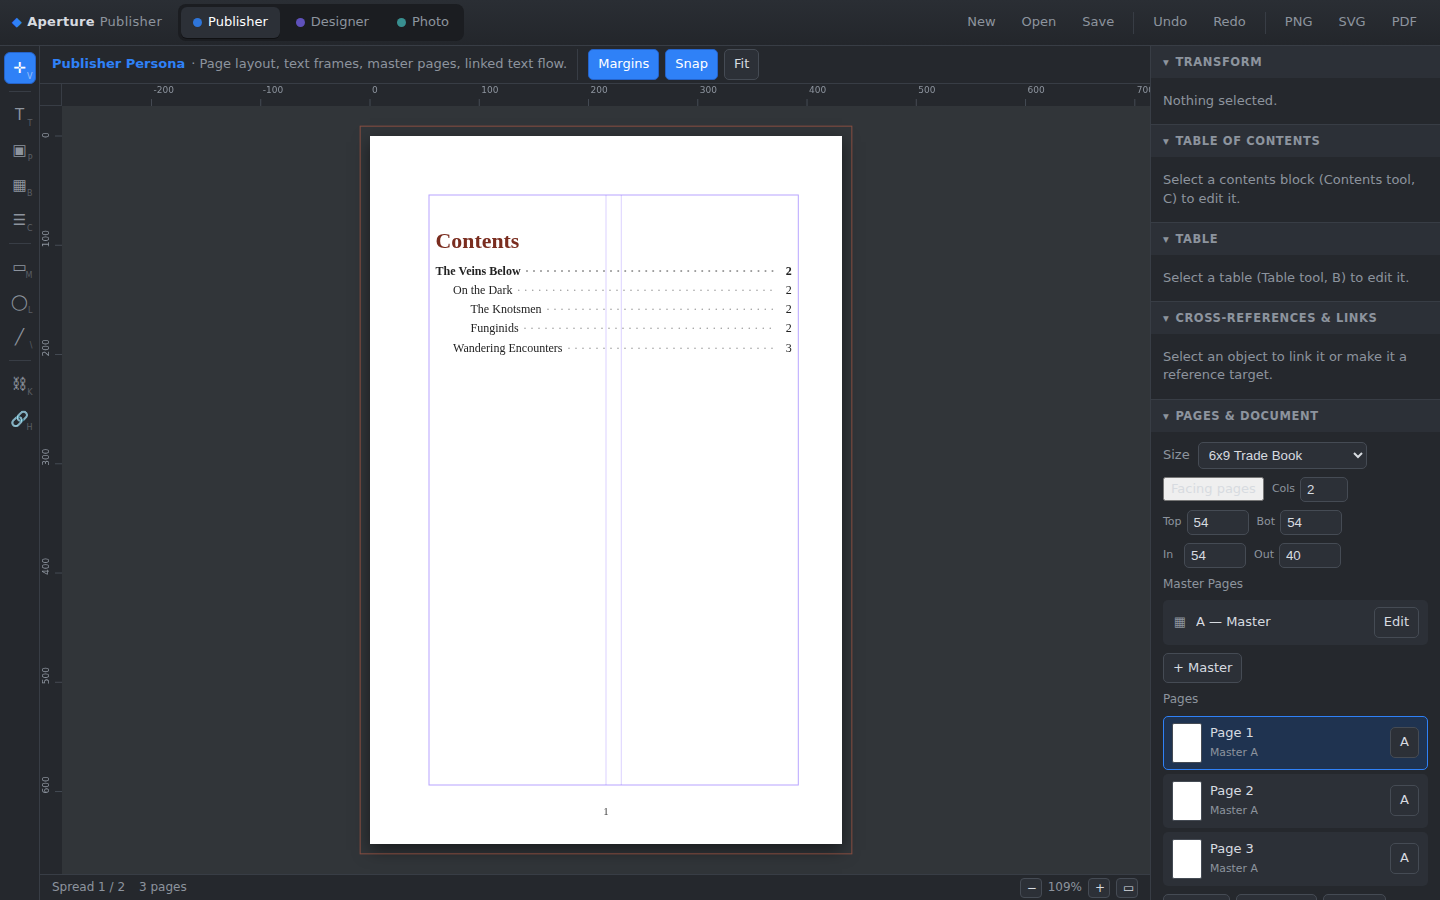
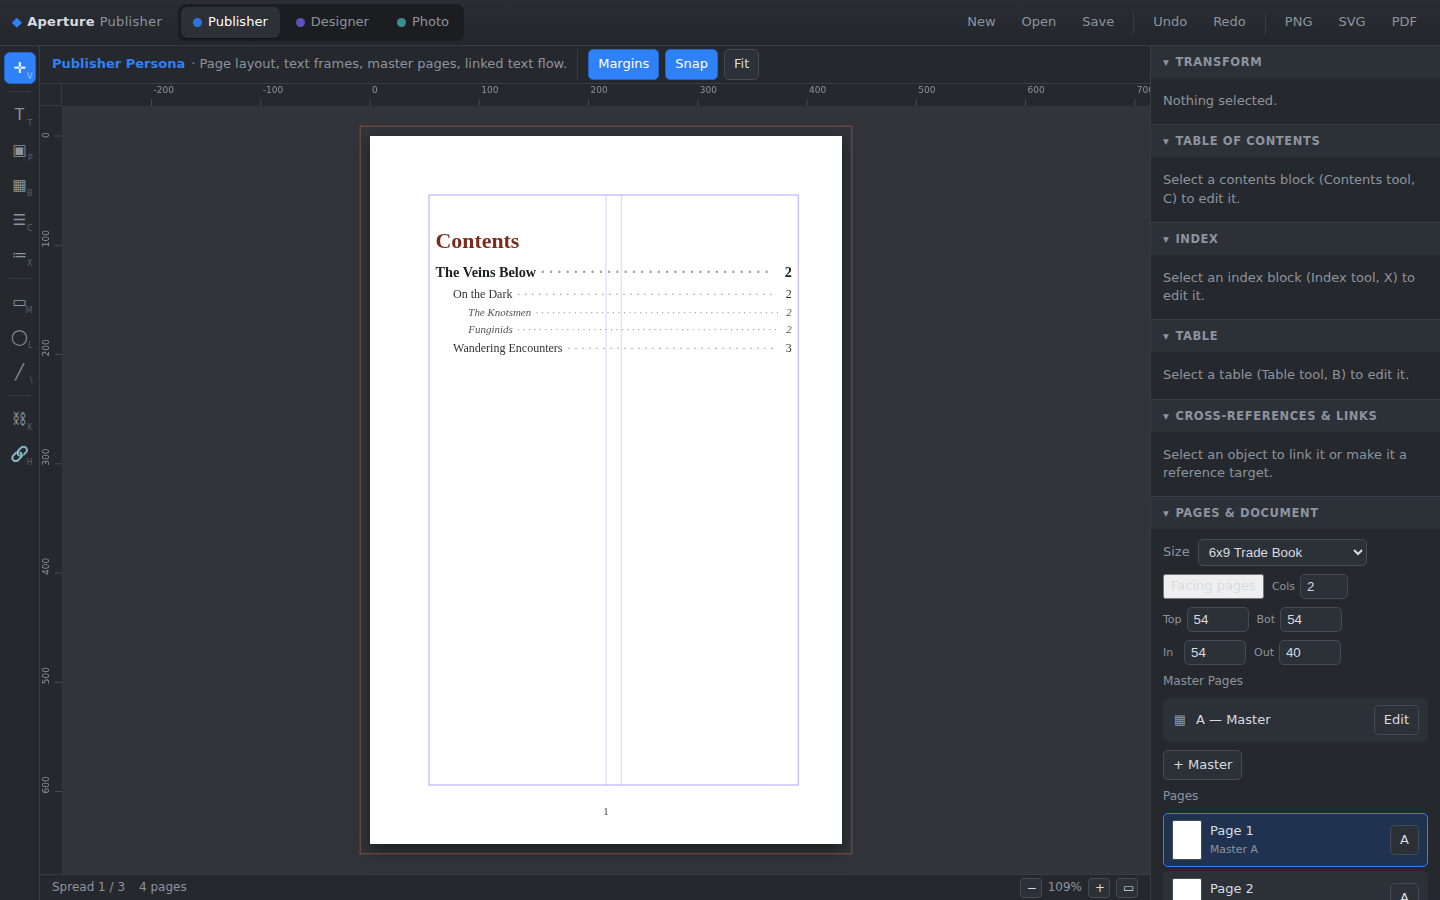
Add per-level styling to the table of contents
Each heading level (H1/H2/H3) in a TOC now has its own style — size, colour,
bold, italic, indent, and whether it shows a page number — via a levelStyles
map on the TOC object (with fallback to the object-level defaults).

- renderer: tocLevelStyle() resolver; computeTocLayout() now uses per-level row
  heights; drawToc() honours per-level font/colour/indent and can hide the page
  number + leaders for a level.
- panels: a "Per-level style" editor (size · colour · B · I · indent · # ) with
  materialised, undoable edits.
- io: PNG/SVG/PDF exports render the per-level styles.
- Starter TOC ships with a clear H1/H2/H3 hierarchy.

Verified in Chromium: distinct per-level rendering, variable row heights, size
edit grows the row, page-number hiding, undo of a level edit, and all exports.

Claude-Session: https://claude.ai/code/session_01V9Hz9qwSWaNTftBnySXKLH

diff --git a/publisher/src/panels.js b/publisher/src/panels.js
@@ -1,7 +1,7 @@
 // All chrome: persona switcher, tool strip, context bar, studio panels, status bar.
 import { store, begin, commit, emit, selectedObjects, getSpreads, findObject } from './store.js';
 import { PERSONAS, TOOLS } from './personas.js';
-import { fitView, drawScene, tableContentHeight, tocContentHeight, indexContentHeight, tableChainOf } from './renderer.js';
+import { fitView, drawScene, tableContentHeight, tocContentHeight, indexContentHeight, tableChainOf, tocLevelStyle } from './renderer.js';
 import { uid, makePage, PAGE_PRESETS } from './model.js';
 import { startTextEdit, followLink, ensureAnchorName, regenerateToc, regenerateIndex } from './interaction.js';
 
@@ -530,10 +530,40 @@ function buildToc() {
   kids.push(el('div', { class: 'row split' }, [
     el('label', { text: 'Title colour' }),
     colorInput(o.titleColor || '#7a2d1f', (c) => tocMutate('toc tcolor', (t) => t.titleColor = c)),
-    colorInput(o.color || '#222222', (c) => tocMutate('toc color', (t) => t.color = c)),
   ]));
+
+  kids.push(el('div', { class: 'muted', text: 'Per-level style — size · colour · B · I · indent · # (page no.)' }));
+  for (const level of [1, 2, 3]) kids.push(tocLevelRow(o, level));
+
   kids.push(el('div', { class: 'muted', text: 'Headings come from text starting with “# ”, “## ”, or “### ”. Refresh after editing or repaginating.' }));
   return section('toc', 'Table of Contents', kids);
+}
+
+function tocLevelMutate(level, label, fn) {
+  const o = selectedObjects().find((s) => s.type === 'toc');
+  if (!o) return;
+  begin(label);
+  o.levelStyles = o.levelStyles || {};
+  o.levelStyles[level] = { ...tocLevelStyle(o, level) }; // materialise resolved values, then edit
+  fn(o.levelStyles[level]);
+  o.h = tocContentHeight(o);
+  commit(label);
+}
+
+function tocLevelRow(o, level) {
+  const st = tocLevelStyle(o, level);
+  return el('div', { class: 'row', style: 'flex-wrap:wrap;gap:5px' }, [
+    el('label', { text: `H${level}`, style: 'min-width:22px' }),
+    el('input', { type: 'number', step: 0.5, min: 4, value: round(st.size), title: 'Size', style: 'width:46px',
+      onchange: (e) => tocLevelMutate(level, 'toc h size', (s) => s.size = Math.max(4, parseFloat(e.target.value) || st.size)) }),
+    colorInput(st.color, (c) => tocLevelMutate(level, 'toc h colour', (s) => s.color = c)),
+    styleToggle('B', st.bold, () => tocLevelMutate(level, 'toc h bold', (s) => s.bold = !s.bold)),
+    styleToggle('I', st.italic, () => tocLevelMutate(level, 'toc h italic', (s) => s.italic = !s.italic)),
+    el('input', { type: 'number', min: 0, value: round(st.indent), title: 'Indent', style: 'width:46px',
+      onchange: (e) => tocLevelMutate(level, 'toc h indent', (s) => s.indent = Math.max(0, parseFloat(e.target.value) || 0)) }),
+    el('button', { class: 'mini', title: 'Show page number for this level', style: st.showPage ? 'background:var(--accent);color:#fff' : '',
+      onclick: () => tocLevelMutate(level, 'toc h page', (s) => s.showPage = !s.showPage) }, '#'),
+  ]);
 }
 
 function levelToggle(o, level, label) {

diff --git a/publisher/src/io.js b/publisher/src/io.js
@@ -1,7 +1,7 @@
 // Save / load projects and export to PNG, SVG, and print-to-PDF.
 import { store, emit, begin, commit as storeCommit, resetHistory, getSpreads } from './store.js';
 import { makeImage } from './model.js';
-import { fitView, computeTocLayout, computeIndexLayout, tableFrameLayout } from './renderer.js';
+import { fitView, computeTocLayout, computeIndexLayout, tableFrameLayout, tocLevelStyle } from './renderer.js';
 import { layoutStory, wrapText } from './textlayout.js';
 
 /* ---------- save / open ---------- */
@@ -221,16 +221,18 @@ function drawTocExport(g, obj) {
   }
   for (const row of L.rows) {
     const e = row.entry;
-    g.font = `${e.level === 1 ? '700 ' : '400 '}${obj.size}px ${obj.fontFamily}`;
-    g.fillStyle = obj.color;
-    const baseline = row.y + obj.size * 0.82;
-    const x0 = L.pad + (e.level - 1) * obj.indent;
-    const pageStr = String(e.page);
+    const st = row.style;
+    g.font = `${st.italic ? 'italic ' : ''}${st.bold ? '700 ' : '400 '}${st.size}px ${obj.fontFamily}`;
+    g.fillStyle = st.color;
+    const baseline = row.y + st.size * 0.82;
+    const x0 = L.pad + st.indent;
     g.textAlign = 'left'; g.fillText(e.text, x0, baseline);
+    if (!st.showPage) continue;
     const textW = g.measureText(e.text).width;
+    const pageStr = String(e.page);
     g.textAlign = 'right'; g.fillText(pageStr, obj.w - L.pad, baseline);
     const pageW = g.measureText(pageStr).width;
-    if (obj.leader) {
+    if (obj.leader && st.leader) {
       g.textAlign = 'left';
       const start = x0 + textW + 4, end = obj.w - L.pad - pageW - 4;
       const dotW = g.measureText(obj.leader + ' ').width || 4;
@@ -429,11 +431,13 @@ function svgForToc(obj, x, y) {
   }
   for (const row of L.rows) {
     const e = row.entry;
-    const baseline = y + row.y + obj.size * 0.82;
-    const x0 = x + L.pad + (e.level - 1) * obj.indent;
-    const weight = e.level === 1 ? '700' : '400';
-    out += `<text x="${x0}" y="${baseline}" font-family="${esc(obj.fontFamily)}" font-size="${obj.size}" font-weight="${weight}" fill="${obj.color}">${esc(e.text)}</text>`;
-    out += `<text x="${x + obj.w - L.pad}" y="${baseline}" text-anchor="end" font-family="${esc(obj.fontFamily)}" font-size="${obj.size}" font-weight="${weight}" fill="${obj.color}">${e.page}</text>`;
+    const st = row.style;
+    const baseline = y + row.y + st.size * 0.82;
+    const x0 = x + L.pad + st.indent;
+    const weight = st.bold ? '700' : '400';
+    const fstyle = st.italic ? ' font-style="italic"' : '';
+    out += `<text x="${x0}" y="${baseline}" font-family="${esc(obj.fontFamily)}" font-size="${st.size}" font-weight="${weight}"${fstyle} fill="${st.color}">${esc(e.text)}</text>`;
+    if (st.showPage) out += `<text x="${x + obj.w - L.pad}" y="${baseline}" text-anchor="end" font-family="${esc(obj.fontFamily)}" font-size="${st.size}" font-weight="${weight}"${fstyle} fill="${st.color}">${e.page}</text>`;
   }
   return out;
 }

diff --git a/publisher/src/renderer.js b/publisher/src/renderer.js
@@ -454,15 +454,34 @@ function drawTable(obj) {
 
 /* ---------- table of contents ---------- */
 
-// Pure vertical layout for a TOC (object-local pts).
+// Resolve a TOC entry's effective style for its heading level, with fallbacks.
+export function tocLevelStyle(obj, level) {
+  const ls = (obj.levelStyles && obj.levelStyles[level]) || {};
+  return {
+    size: ls.size ?? obj.size,
+    color: ls.color ?? obj.color,
+    bold: ls.bold ?? (level === 1),
+    italic: ls.italic ?? false,
+    indent: ls.indent ?? (level - 1) * obj.indent,
+    showPage: ls.showPage ?? true,
+    leader: ls.leader ?? true,
+  };
+}
+
+// Pure vertical layout for a TOC (object-local pts). Row heights follow the
+// per-level font size, so levels can differ in size.
 export function computeTocLayout(obj) {
   const pad = obj.padding ?? 6;
   const titleH = obj.title ? obj.titleSize * obj.lineHeight : 0;
-  const rowH = obj.size * obj.lineHeight;
   const rows = [];
   let y = pad + titleH;
-  for (const entry of obj.entries || []) { rows.push({ y, h: rowH, entry }); y += rowH; }
-  return { pad, titleH, rowH, rows, totalH: y + pad };
+  for (const entry of obj.entries || []) {
+    const st = tocLevelStyle(obj, entry.level);
+    const h = st.size * obj.lineHeight;
+    rows.push({ y, h, entry, style: st });
+    y += h;
+  }
+  return { pad, titleH, rows, totalH: y + pad };
 }
 
 export function tocContentHeight(obj) { return computeTocLayout(obj).totalH; }
@@ -492,20 +511,21 @@ function drawToc(obj) {
   }
   for (const row of L.rows) {
     const e = row.entry;
-    const bold = e.level === 1;
-    ctx.font = `${bold ? '700 ' : '400 '}${obj.size}px ${obj.fontFamily}`;
-    ctx.fillStyle = obj.color;
-    const baseline = row.y + obj.size * 0.82;
-    const x0 = pad + (e.level - 1) * obj.indent;
-    const pageStr = String(e.page);
+    const st = row.style;
+    ctx.font = `${st.italic ? 'italic ' : ''}${st.bold ? '700 ' : '400 '}${st.size}px ${obj.fontFamily}`;
+    ctx.fillStyle = st.color;
+    const baseline = row.y + st.size * 0.82;
+    const x0 = pad + st.indent;
     ctx.textAlign = 'left';
     ctx.fillText(e.text, x0, baseline);
+    if (!st.showPage) continue;
     const textW = ctx.measureText(e.text).width;
+    const pageStr = String(e.page);
     ctx.textAlign = 'right';
     ctx.fillText(pageStr, obj.w - pad, baseline);
     const pageW = ctx.measureText(pageStr).width;
     // dot leaders between the entry text and the page number
-    if (obj.leader) {
+    if (obj.leader && st.leader) {
       ctx.textAlign = 'left';
       const start = x0 + textW + 4;
       const end = obj.w - pad - pageW - 4;

diff --git a/publisher/src/model.js b/publisher/src/model.js
@@ -179,9 +179,15 @@ export function makeToc(layerId) {
     size: 11,
     color: '#222222',
     lineHeight: 1.6,
-    indent: 16,                 // per-level indent
+    indent: 16,                 // fallback per-level indent step
     leader: '·',                // dot-leader character
     padding: 6,
+    // Per-level overrides; any omitted field falls back to the values above.
+    levelStyles: {
+      1: { size: 13, bold: true, italic: false, color: '#1d1f23', indent: 0, showPage: true, leader: true },
+      2: { size: 11, bold: false, italic: false, color: '#333333', indent: 16, showPage: true, leader: true },
+      3: { size: 10, bold: false, italic: true, color: '#555555', indent: 30, showPage: true, leader: true },
+    },
     fill: null,
     stroke: null,
     strokeWidth: 0,

diff --git a/publisher/README.md b/publisher/README.md
@@ -44,11 +44,14 @@ Switch with the buttons or keys **1 / 2 / 3**.
   and frame-to-frame. Lightweight markup — start a line with `# ` or `## ` for
   headings — lets one story mix styles.
 - **Table of contents** — a generated **Contents** block built by scanning your
-  `#`/`##`/`###` headings. Choose which levels to include; entries are indented by
-  level with **dot leaders** and **live page numbers**. Click **Generate / Refresh**
-  after writing or repaginating, double-click an entry to jump to its page, and the
-  TOC exports as clickable links in the PDF. (The starter document ships with one as
-  front matter — note the page numbers update when content moves.)
+  `#`/`##`/`###` headings. Choose which levels to include, and give each heading
+  level its **own style** — size, colour, bold/italic, indent, and whether it shows
+  a page number — so chapter titles, sections, and sub-sections read as a clear
+  hierarchy. Entries use **dot leaders** and **live page numbers**. Click
+  **Generate / Refresh** after writing or repaginating, double-click an entry to
+  jump to its page, and the TOC exports as clickable links in the PDF. (The starter
+  document ships with one as front matter — note the page numbers update when
+  content moves.)
 
 ![Generated table of contents](docs/toc.png)
 
@@ -128,7 +131,8 @@ Switch with the buttons or keys **1 / 2 / 3**.
 2. Pick the **Contents** tool (`C`) and drag out a block (usually on a front
    page). It generates immediately from the current headings.
 3. In the **Table of Contents** panel choose which levels to include (H1/H2/H3),
-   set the title, fonts, indent, and leader character.
+   set the title, fonts, and leader character, and style each level in the
+   **Per-level style** rows (size · colour · **B** · *I* · indent · `#` page-number).
 4. After editing headings or when pagination changes, click **Generate /
    Refresh**. Double-click any entry to jump to its page; entries become clickable
    links in the exported PDF.
